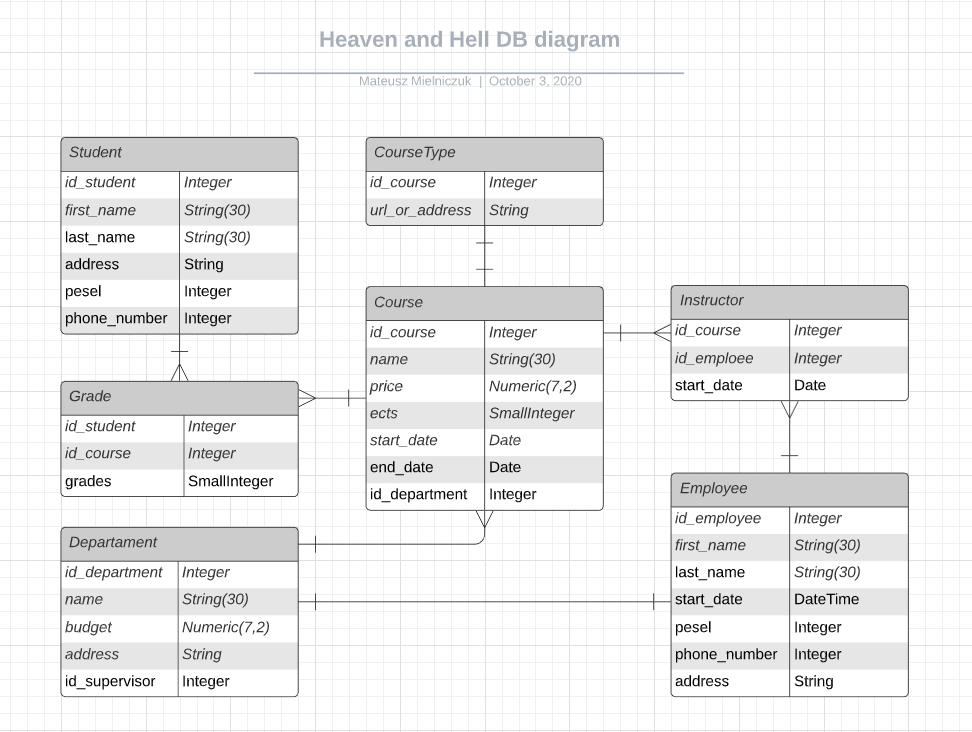
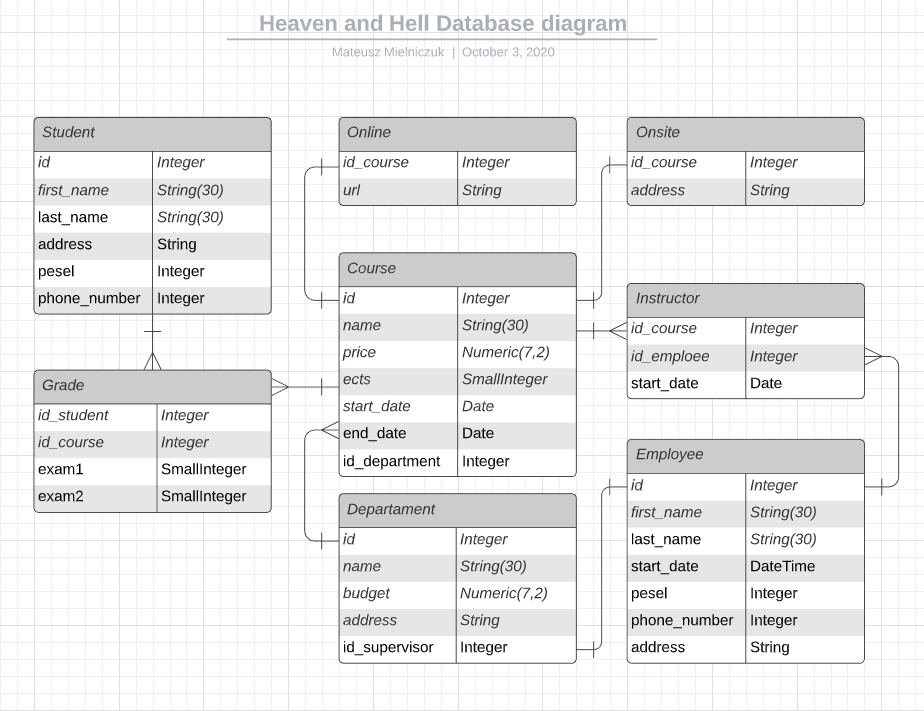
Changed database model. Deleted supervisor association table, used one to one relationship.

diff --git a/db/database.py b/db/database.py
@@ -32,17 +32,6 @@ class Instructor(Base):
     employee = relationship("Employee", back_populates="courses")
 
 
-class Supervisor(Base):
-    __tablename__ = "supervisors"
-    id_employee = Column(Integer, ForeignKey("employees.id"), primary_key=True)
-    id_department = Column(Integer, ForeignKey("departments.id"), primary_key=True)
-    start_date = Column(Date)
-
-    # many to many relationship
-    employee = relationship("Employee", back_populates="departments")
-    department = relationship("Department", back_populates="employees")
-
-
 # old supervisor association table. I do not know how to put data in
 # supervisor = Table("supervisors", Base.metadata,
 #                    Column("id_employee", ForeignKey("employees.id")),
@@ -65,8 +54,8 @@ class Course(Base):
     departments = relationship("Department", back_populates="courses")
 
     # one to one relationships
-    course_type = relationship("Online", uselist=False, back_populates="course")
-    # onsite = relationship("Onsite", uselist=False, back_populates="course")
+    online = relationship("Online", uselist=False, back_populates="course")
+    onsite = relationship("Onsite", uselist=False, back_populates="course")
 
     # many to many relationship with [students] table and [grades] association table
     students = relationship("Grade", back_populates="course")
@@ -78,8 +67,8 @@ class Course(Base):
         return f"Course id: {self.id} name: {self.name} ects: {self.ects}"
 
 
-class CurseType(Base):
-    __tablename__ = "course_type"
+class Online(Base):
+    __tablename__ = "online"
 
     id_course = Column(Integer, ForeignKey('courses.id'), primary_key=True)
     url = Column(String)
@@ -129,8 +118,8 @@ class Employee(Base):
     # many to many relationship with [courses] table and [instructor] association table
     courses = relationship("Instructor", back_populates="employee")
 
-    # many to many relationship with [departments] table and [supervisor] association table
-    departments = relationship("Supervisor", back_populates="employee")
+    # one to one relationship with [departments] table
+    departments = relationship("Department", back_populates="employee")
 
     def __repr__(self):
         return f"Employee id:{self.id}, name: {self.first_name} {self.last_name}"
@@ -144,8 +133,9 @@ class Department(Base):
     budget = Column(Numeric(7, 2))
     address = Column(String)
 
-    # many to many relationship with [employees] table and [supervisor] association table
-    employees = relationship("Supervisor", back_populates="department")
+    # one to one relationship with employees
+    id_supervisor = Column(Integer, ForeignKey('employees.id'))
+    employee = relationship("Employee", uselist=False, back_populates="departments")
 
     # one department to many courses relationship
     courses = relationship("Course", back_populates="departments")

diff --git a/db/utils.py b/db/utils.py
@@ -1,5 +1,5 @@
 from datetime import datetime, date
-from db.database import Course, Department, Employee, Student, Grade, Online, Onsite, Supervisor, Instructor
+from db.database import Course, Department, Employee, Student, Grade, Online, Onsite, Instructor
 
 
 def bootstrap_courses(session):
@@ -38,7 +38,8 @@ def bootstrap_departments(session):
     session.add_all([
         Department(name=name,
                    budget=budget,
-                   address=address)
+                   address=address,
+                   id_supervisor=10)
         for name, budget, address in departments
     ])
     session.commit()
@@ -172,21 +173,6 @@ def bootstrap_onsite(session):
     session.commit()
 
 
-def bootstrap_supervisors(session):
-    values = [
-        (10, 1, date(2012, 10, 9)),
-        (10, 2, date(2012, 10, 9)),
-        (10, 3, date(2012, 10, 9)),
-        (10, 4, date(2012, 10, 9)),
-        (10, 5, date(2012, 10, 9))
-    ]
-    session.add_all([
-        Supervisor(id_employee=emp, id_department=dep, start_date=start)
-        for emp, dep, start in values
-    ])
-    session.commit()
-
-
 def bootstrap_instructors(session):
     values = [
         (1, 1, date(2018, 1, 26)),
@@ -220,5 +206,4 @@ def bootstrap_db(session):
     bootstrap_grades(session)
     bootstrap_online(session)
     bootstrap_onsite(session)
-    bootstrap_supervisors(session)
     bootstrap_instructors(session)
